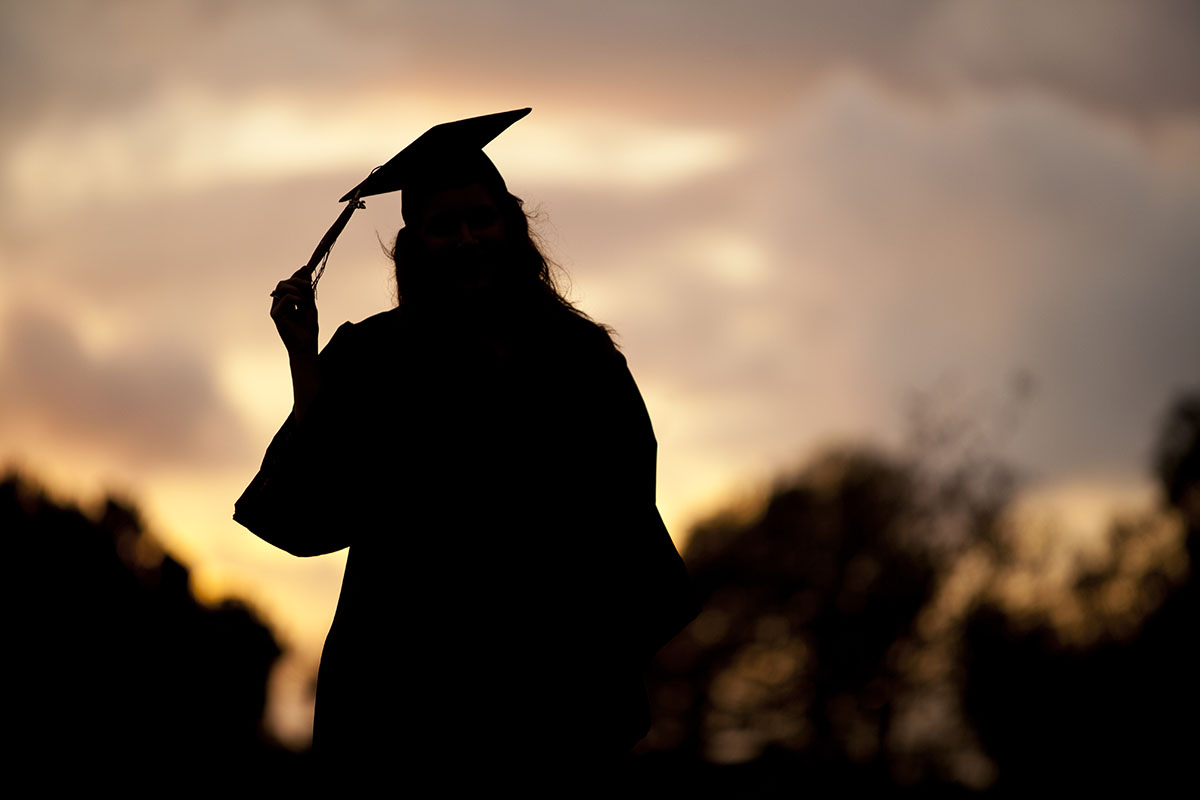
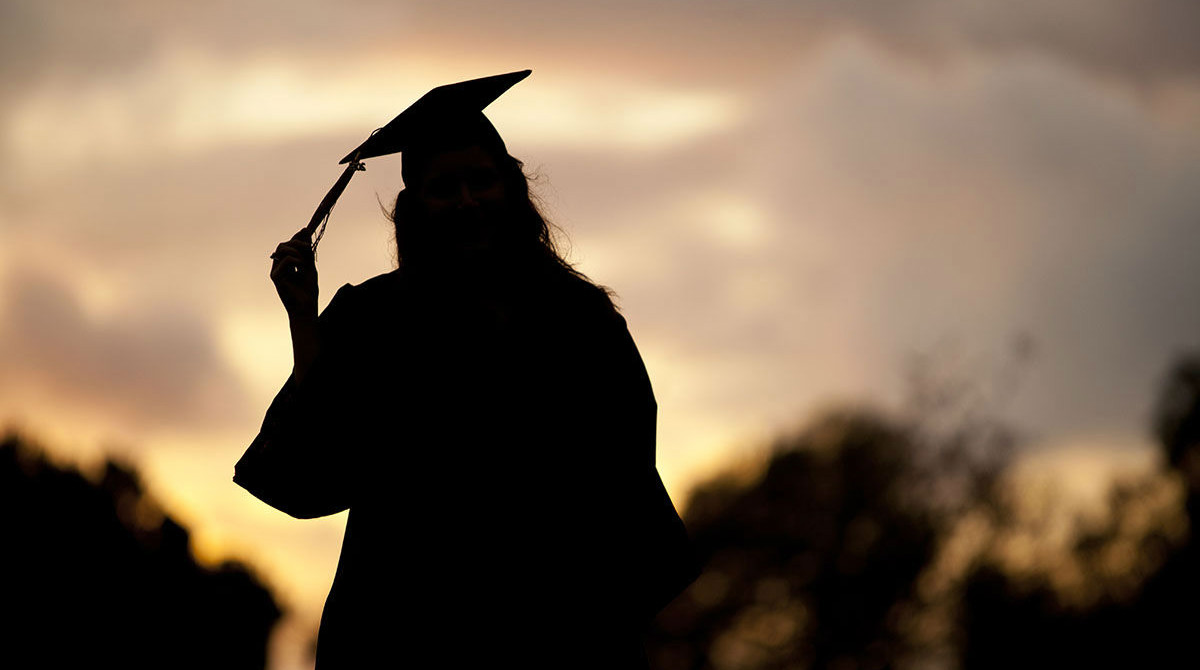
Make the images on splash page have equal size

diff --git a/app/frontend/src/css/splash.css b/app/frontend/src/css/splash.css
@@ -4,7 +4,6 @@
 
 .carousel-caption .cbutton{
   font-size: 22px;
-  margin-bottom: 2rem;
 }
 
 .carousel-caption .cheader{
@@ -13,14 +12,14 @@
 }
 
 .carousel {
-  max-height: 775px;
+  height: 700px;
   margin: auto;
 }
 
 img {
   max-width: 100%;
   width: auto   9;
-  height: auto;
+  height: 775px;
   vertical-align: middle;
   border: 0;
   -ms-interpolation-mode: bicubic;
@@ -28,7 +27,7 @@ img {
 
 .carousel img {
   min-width: 100%;
-  max-height: 775px;
+  height: 700px;
   max-width: none;
 }
 
